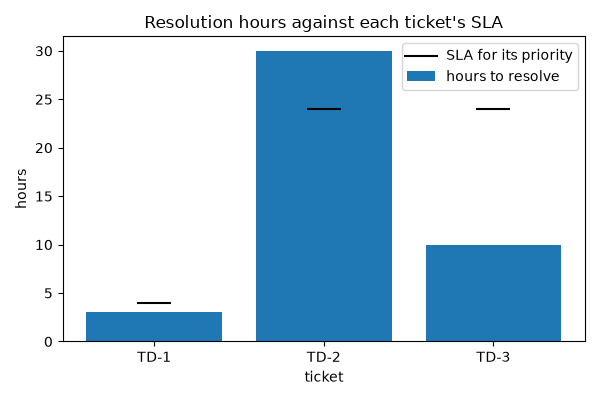
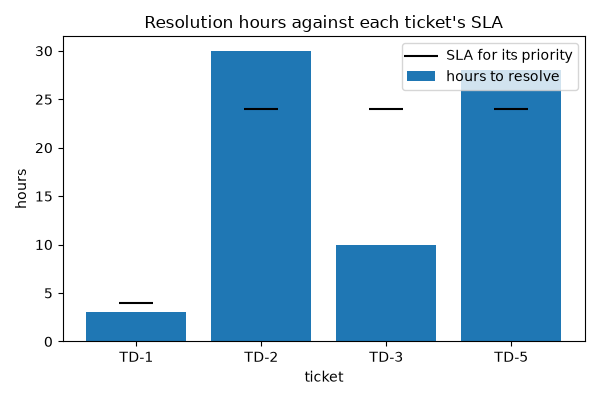
Desk on MySQL: week 3 block 06, delivered live 2026-11-03
Claude-Session: https://claude.ai/code/session_01VuFbzyQe5P83poJLViRhwv

diff --git a/ticket-desk/ticket_desk.py b/ticket-desk/ticket_desk.py
@@ -3,11 +3,12 @@ import logging
 from datetime import timedelta
 from pathlib import Path
 from desk import NOW, Desk, Ticket, redact, ticket_refs
-from storage import append_line, export_board, load_desk, save_desk
+from storage import append_line, export_board, load_desk, save_desk, load_desk_db
 from stats import summary
 from report import status_counts
 from frame import hours_by_priority, load_frame, status_table
 from chart import hours_chart, status_chart
+from db import connect
 
 log = logging.getLogger(__name__)
 
@@ -21,29 +22,31 @@ def main():
     
     # Using our JSON file
     try:
-        desk = load_desk(DATA)
+        # desk = load_desk(DATA) - no longer reading via .json 
+        conn = connect()
+        desk = load_desk_db(conn)
     except ValueError:
-        log.error("Failed to read tickets.json")
+        log.error("Failed to connect to the database")
         desk = Desk()
     
     
     # If my desk is empty (file didn't exist, or contained no tickets)
     # then use my old code to seed the desk
-    if len(desk) == 0:
-        t1 = Ticket(1, "Login page returns 500", "high", NOW - timedelta(hours=30))
-        t2 = Ticket(2, "Invoice PDF is blank", "normal", NOW - timedelta(hours=50))
-        t3 = Ticket(3, "Typo on pricing page", "normal", NOW - timedelta(hours=20))
-        t4 = Ticket(4, "Checkout button frozen", "high", NOW - timedelta(hours=6))
-        t5 = Ticket(5, "Export is missing rows", "normal", NOW - timedelta(hours=26))
-        t6 = Ticket(6, "Add dark mode", "low", NOW - timedelta(hours=2))
+    # if len(desk) == 0:
+    #     t1 = Ticket(1, "Login page returns 500", "high", NOW - timedelta(hours=30))
+    #     t2 = Ticket(2, "Invoice PDF is blank", "normal", NOW - timedelta(hours=50))
+    #     t3 = Ticket(3, "Typo on pricing page", "normal", NOW - timedelta(hours=20))
+    #     t4 = Ticket(4, "Checkout button frozen", "high", NOW - timedelta(hours=6))
+    #     t5 = Ticket(5, "Export is missing rows", "normal", NOW - timedelta(hours=26))
+    #     t6 = Ticket(6, "Add dark mode", "low", NOW - timedelta(hours=2))
 
-        for t in [t1, t2, t3, t4, t5, t6]:
-            desk.add(t)
-        t1.close(t1.opened_at + timedelta(hours=3))
-        t2.close(t2.opened_at + timedelta(hours=30))
-        t3.close(t3.opened_at + timedelta(hours=10))
-        t4.assign("Priya")
-        t5.assign("Marco")
+    #     for t in [t1, t2, t3, t4, t5, t6]:
+    #         desk.add(t)
+    #     t1.close(t1.opened_at + timedelta(hours=3))
+    #     t2.close(t2.opened_at + timedelta(hours=30))
+    #     t3.close(t3.opened_at + timedelta(hours=10))
+    #     t4.assign("Priya")
+    #     t5.assign("Marco")
     
     # In python this is the syntax for handling exceptions: try-except
     try:
@@ -88,6 +91,8 @@ def main():
     # delete_file("board.txt")
     
     save_desk(desk, DATA)
+    
+    conn.close()
 
     print(summary(desk))
     

diff --git a/ticket-desk/storage.py b/ticket-desk/storage.py
@@ -121,4 +121,59 @@ def load_desk(path):
     
     return desk
     
+""" Below this part of the file we will write functions/code that works with our MySQL database"""
+def load_desk_db(conn):
+    """Return a desk holding every ticket in the database in ID order"""
+    cursor = conn.cursor()
+    cursor.execute("SELECT agent_id, name FROM agents")
     
+    """Sending this right to a dictionary"""
+    names = dict(cursor.fetchall())
+    
+    cursor.execute(
+        """SELECT ticket_id, title, priority, status, agent_id, opened_at, closed_at
+        FROM tickets
+        ORDER BY ticket_id"""
+    )
+    
+    desk = Desk()
+    
+    for ticket_id, title, priority, status, agent_id, opened_at, closed_at in cursor.fetchall():
+        ticket = Ticket(ticket_id, title, priority, opened_at)
+        ticket.status = status
+        ticket.assignee = names.get(agent_id)
+        ticket.closed_at = closed_at
+        desk.add(ticket)
+    
+    cursor.close()
+    conn.commit()
+    
+    return desk
+    
+def insert_ticket(conn, ticket, customer_id):
+    """Insert a new ticket for a customer and commit it"""
+    cursor = conn.cursor()
+    cursor.execute(
+        """INSERT INTO tickets (title, priority, customer_id, opened_at)
+        VALUES (%s, %s, %s, %s)""",
+        (ticket.title, ticket.priority, customer_id, ticket.opened_at)
+    )
+    conn.commit()
+    
+def close_ticket_db(conn, ticket_id, closed_at):
+    """Close a ticket on the database at a given moment and commit"""
+    cursor = conn.cursor()
+    cursor.execute(
+        """UPDATE tickets
+        SET status = 'closed', closed_at = %s
+        WHERE ticket_id = %s""",
+        (closed_at, ticket_id)
+    )
+    conn.commit()
+    
+def delete_ticket_db(conn, ticket_id):
+    """Delete a ticket, commit, and return how many rows were deleted"""
+    cursor = conn.cursor()
+    cursor.execute("DELETE FROM tickets WHERE ticket_id = %s", (ticket_id,))
+    conn.commit()
+    return cursor.rowcount

diff --git a/ticket-desk/db.py b/ticket-desk/db.py
@@ -1,0 +1,15 @@
+"""Connect the desk to its MySQL database"""
+
+import os
+import mysql.connector 
+
+def connect():
+    """Returns a connection object to ticket_desk at the root account"""
+    return mysql.connector.connect(
+        host="127.0.0.1",
+        port="3306",
+        user="root",
+        password=os.environ["DESK_DB_PASSWORD"],
+        database="ticket_desk"
+    )
+    
